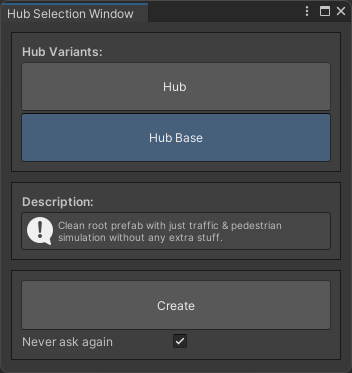
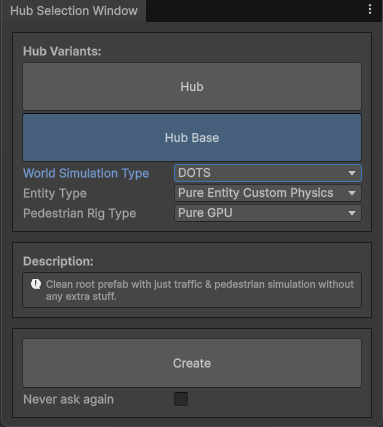
up

diff --git a/docs/source/cityCreation.rst b/docs/source/cityCreation.rst
@@ -23,6 +23,12 @@ Initial Components
 	* **Hub** : root prefab used in `Demo` & `Demo Mono` scenes & contains demo sample dependencies.
 	* **Hub Base** : clean root prefab with just traffic & pedestrian simulation without any extra stuff (:ref:`player <playerCustom>` should be spawned with your own script or simply drag & drop into the scene).
 
+#. Depending on the desired simulation, select the World simulation type: `DOTS` or `Hybrid Mono`.
+
+	.. note::
+		**DOTS** : simulation of traffic & pedestrians entirely in `DOTS` space.
+		**Hybrid mono** : physics simulation run on `Monobehaviour` scripts, but input taken from `DOTS` entities simulation.
+
 #. Press `Create` button.
 #. Continue with the `Hub Base`_ or :ref:`Hub <demoCity>` article, depending on your choice.
 		